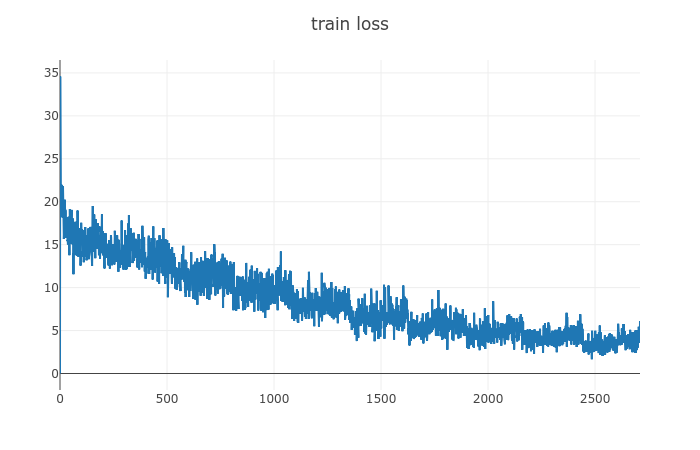
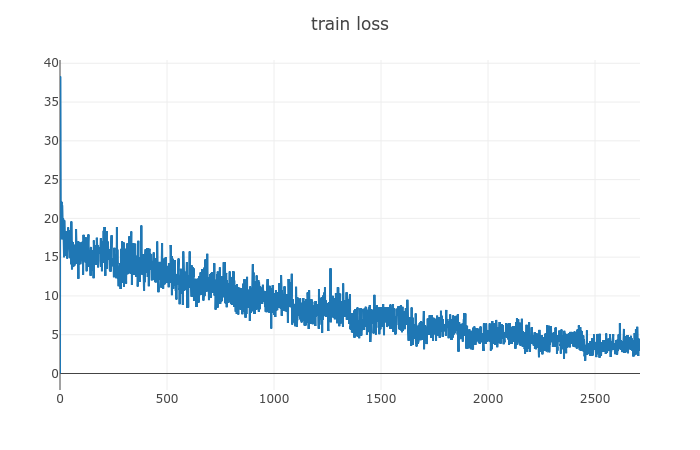
修改loss function

diff --git a/attention/train.py b/attention/train.py
@@ -83,7 +83,7 @@ def trainIters(encoder, decoder, print_every = 1000, learning_rate = 0.01):
 
     encoder_optimizer = optim.SGD(encoder.parameters(), lr = learning_rate)
     decoder_optimizer = optim.SGD(decoder.parameters(), lr = learning_rate)
-    criterion = nn.CrossEntropyLoss()
+    criterion = nn.NLLLoss()
     n_iters_per_epoch = int (len(trainset) / BATCH_SIZE)
 
     for i in range(EPOCH):

diff --git a/attention/README.md b/attention/README.md
@@ -60,25 +60,15 @@ tensorboardX 1.7
 3. 测试结果
     * predict sentence
     ```
-    fra input sentence: en ce moment je n etudie pas  EOS
-    eng output sentence: i am not studying now  EOS
-    eng predicted output sentence: i am now not studying  EOS
+    fra input sentence: je suis desole si je vous ai derange  EOS
+    eng output sentence: i m sorry if i disturbed you  EOS
+    eng predicted output sentence: i m sorry if i disturbed you  EOS
     ```
 
     * attention weights
     
     ![result_1](./img/result_1.png)
 
-    * predict sentence
-    ```
-    fra input sentence: on n est jamais trop vieux pour apprendre  EOS
-    eng output sentence: you re never too old to learn  EOS
-    eng predicted output sentence: you re never too old to learn  EOS
-    ```
-
-    * attention weights
-    
-    ![result_2](./img/result_2.png)
 
 ## 参考文献
 [Neural Machine Translation by Jointly Learning to Align and Translate](https://arxiv.org/pdf/1409.0473.pdf)
